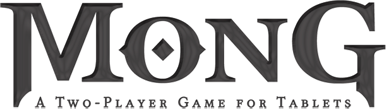
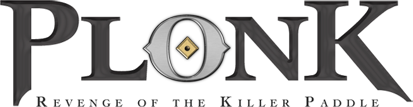
Renamed from Mong to Plonk. Exchanged graphics. Added Randall to credits.

diff --git a/qml/mong/Menu.qml b/qml/mong/Menu.qml
@@ -120,7 +120,7 @@ Item {
                 anchors.horizontalCenter: parent.horizontalCenter
                 anchors.top: parent.top
                 anchors.topMargin: 40
-                source: "img/menu/title_about.png"
+                source: "img/menu/title.png"
                 transformOrigin: Item.Top
                 Behavior on scale { PropertyAnimation { } }
             }
@@ -145,7 +145,7 @@ Item {
                 Text {
                     anchors.centerIn: parent
                     horizontalAlignment: Text.AlignHCenter
-                    text: '<center><h1>Version ' + mongView.version + '</h1><p><strong>Programming</strong><br>Cornelius Hald<br>Thomas Perl</p><p><strong>Graphics</strong><br>Tim Samoff</p><p><strong>Sound Effects</strong><br>Erik Stein</p><br><p>Initially developed at the MeeGo Conference 2011 in San Francisco.<br>Sound effects from the air hockey tables at the Hacker Lounge.</p></center>'
+                    text: '<center><h1>Version ' + mongView.version + '</h1><p><strong>Programming</strong><br>Cornelius Hald<br>Thomas Perl</p><p><strong>Graphics</strong><br>Tim Samoff</p><p><strong>Sound Effects</strong><br>Erik Stein</p><p><strong>Name</strong><br>Randall Arnold</p><br<p>Initially developed at the MeeGo Conference 2011 in San Francisco.<br>Sound effects from the air hockey tables at the Hacker Lounge.</p></center>'
                 }
             }
 
